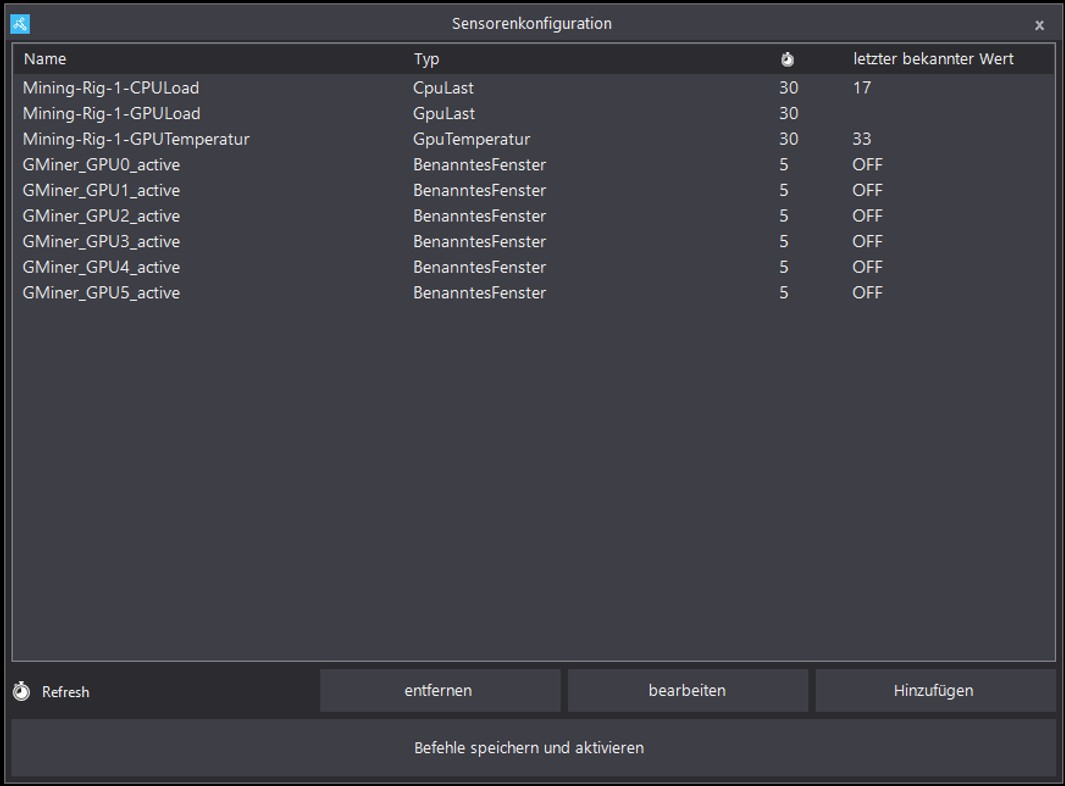
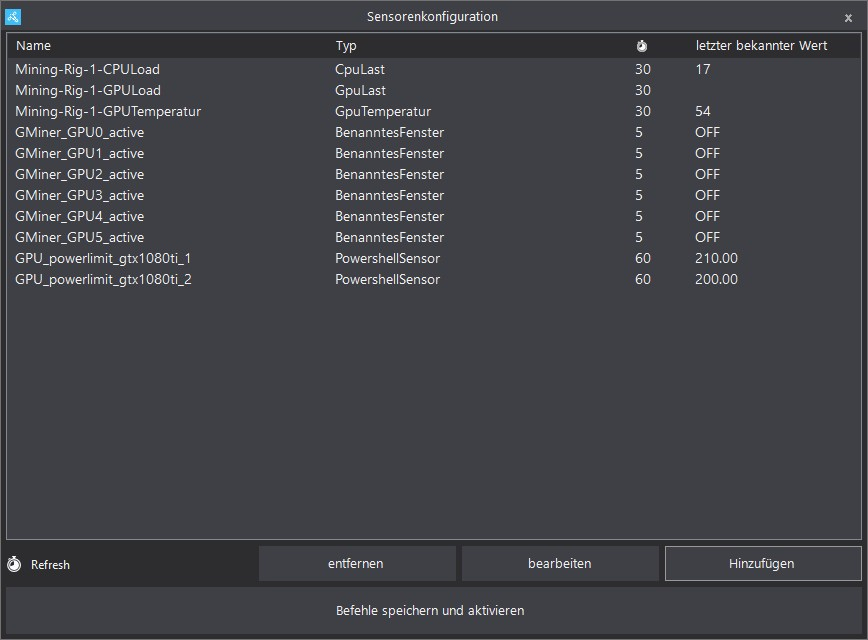
update for power tracking

diff --git a/README.md b/README.md
@@ -27,19 +27,99 @@ C:\Mining\GMiner\
 ├── mine_ravencoin_1.bat
 ├── ...
 ├── mine_ravencoin_x.bat
+├── set_power_limit.bat
 ```
 
-### Batch File Example (`mine_ravencoin_0.bat`)
+### Setting GPU Power Limits (`set_power_limit.bat`)
+
+```bat
+@echo off
+title Set NVIDIA Power Limits
+:: GPU0
+nvidia-smi -i GPU-<UUID> -pl 210
+:: GPU1
+nvidia-smi -i GPU-<UUID> -pl 210
+```
+
+To add this task to boot of Windows use this Command-line one-liner (Run as Admin).
+
+```bat
+schtasks /create /tn "SetNvidiaPL" /tr "C:\Mining\set_power_limit.bat" /sc onstart /ru "SYSTEM" /rl HIGHEST
+```
+
+To check if the Power Limits are set you can use this commad prompt:
+
+```bat
+nvidia-smi --query-gpu=name,power.limit --format=csv
+```
+
+### Batch File Sample (`mine_ravencoin_sample.bat`)
 
 ```bat
 cd "C:\Mining\GMiner\"
-title GPU0 Miner
-miner.exe --algo kawpow --server [YOUR_POOL_ADDRESS] --user [YOUR_WALLET].[YOUR_WORKER_ID] --devices 0
+title GPU<ID> Miner
+miner.exe --algo kawpow --server [YOUR_POOL_ADDRESS] --user [YOUR_WALLET].[YOUR_WORKER_ID] --devices GPU<ID>
 pause
 ```
 
 - Each file uses a distinct `--devices` number and `title` for window tracking
 - All batch files remain in the same directory as the miner executable
+
+The GMiner only accepts the `GPU<ID>` in `--devices`. If you use multiple GPUs of different types or want to control a distinctive physical card you can use the `GPU-<UUID>` to retrieve the `GPU<ID>`. Add this before the miner start in the mining`.bat` file and change the `GPU<ID>` at the end:
+
+### Batch File Exampke (`mine_ravencoin_0.bat`)
+
+```bat
+@echo off
+setlocal ENABLEDELAYEDEXPANSION
+title GMiner_GPU0
+
+REM ====== Enter your UUID(s) here ======
+set "UUID_LIST=GPU-<UUID1>"
+REM Example for multiple:
+REM set "UUID_LIST=GPU-<UUID1>,GPU-<UUID2>"
+
+set "DEVICE_INDICES="
+
+REM ====== UUID -> INDEX mapping for 'nvidia-smi -L' ======
+for %%U in (%UUID_LIST%) do (
+  set "IDX_FOUND="
+  for /f "usebackq tokens=2 delims= " %%I in (`
+    nvidia-smi -L 2^>nul ^| find "%%~U"
+  `) do (
+    set "IDX_TMP=%%I"
+    set "IDX_FOUND=!IDX_TMP::=!"
+  )
+  if defined IDX_FOUND (
+    if defined DEVICE_INDICES (
+      set "DEVICE_INDICES=!DEVICE_INDICES!,!IDX_FOUND!"
+    ) else (
+      set "DEVICE_INDICES=!IDX_FOUND!"
+    )
+  ) else (
+    echo [ERROR] UUID %%~U could not be found
+    echo [DEBUG]output of 'nvidia-smi -L':
+    nvidia-smi -L
+    pause
+    exit /b 1
+  )
+)
+
+echo [INFO] UUID(s): %UUID_LIST%
+echo [INFO] GMiner-Indices: %DEVICE_INDICES%
+
+REM ====== Overview and check ======
+nvidia-smi -L
+nvidia-smi --query-gpu=index,uuid,name,pci.bus_id --format=csv 2>nul
+
+REM ====== Start GMiner ======
+cd /d C:\Mining\GMiner
+miner.exe --algo kawpow --server rvn.2miners.com:6060 --user [YOUR_WALLET_ADDRESS].[YOUR_WORKER_ID] --devices %DEVICE_INDICES%
+
+echo [INFO] Mining ended
+pause
+
+```
 
 ---
 
@@ -119,7 +199,39 @@ These sensors are auto-discovered in Home Assistant as `binary_sensor.mining_rig
 
 This shows the sensor configuration in HASS.Agent. It tracks if a Command Prompt window with the title `GMiner_GPU0` is open (not necessarily in focus).
 
+### Power Limit Tracking (from `sensors.json`)
 
+Each GPU has a `PowershellSensor` to detect current power limit of that GPU.
+
+#### Example: GPU0
+
+```json
+  {
+    "Type": "PowershellSensor",
+    "Id": "<UUID>",
+    "Name": "GPU_powerlimit_<graphic-card>",
+    "UpdateInterval": 60,
+    "Query": "(nvidia-smi --query-gpu=power.limit --format=csv,noheader,nounits -i GPU-<UUID>).Trim()",
+    "Scope": null,
+    "WindowName": "",
+    "Category": "",
+    "Counter": "",
+    "Instance": "",
+    "EntityName": "GPU_powerlimit_<graphic-card>",
+    "IgnoreAvailability": true,
+    "ApplyRounding": false,
+    "Round": null,
+    "AdvancedSettings": null
+  },
+```
+
+These sensors are auto-discovered in Home Assistant as `sensor.GPU_powerlimit_<graphic-card>`.
+
+#### Graphical Setup Example:
+
+![HASS.Agent_Sensor](images/sensor2_en.jpg)
+
+This shows the sensor configuration in HASS.Agent.
 
 
 ### Final HASS.Agent Setup:
